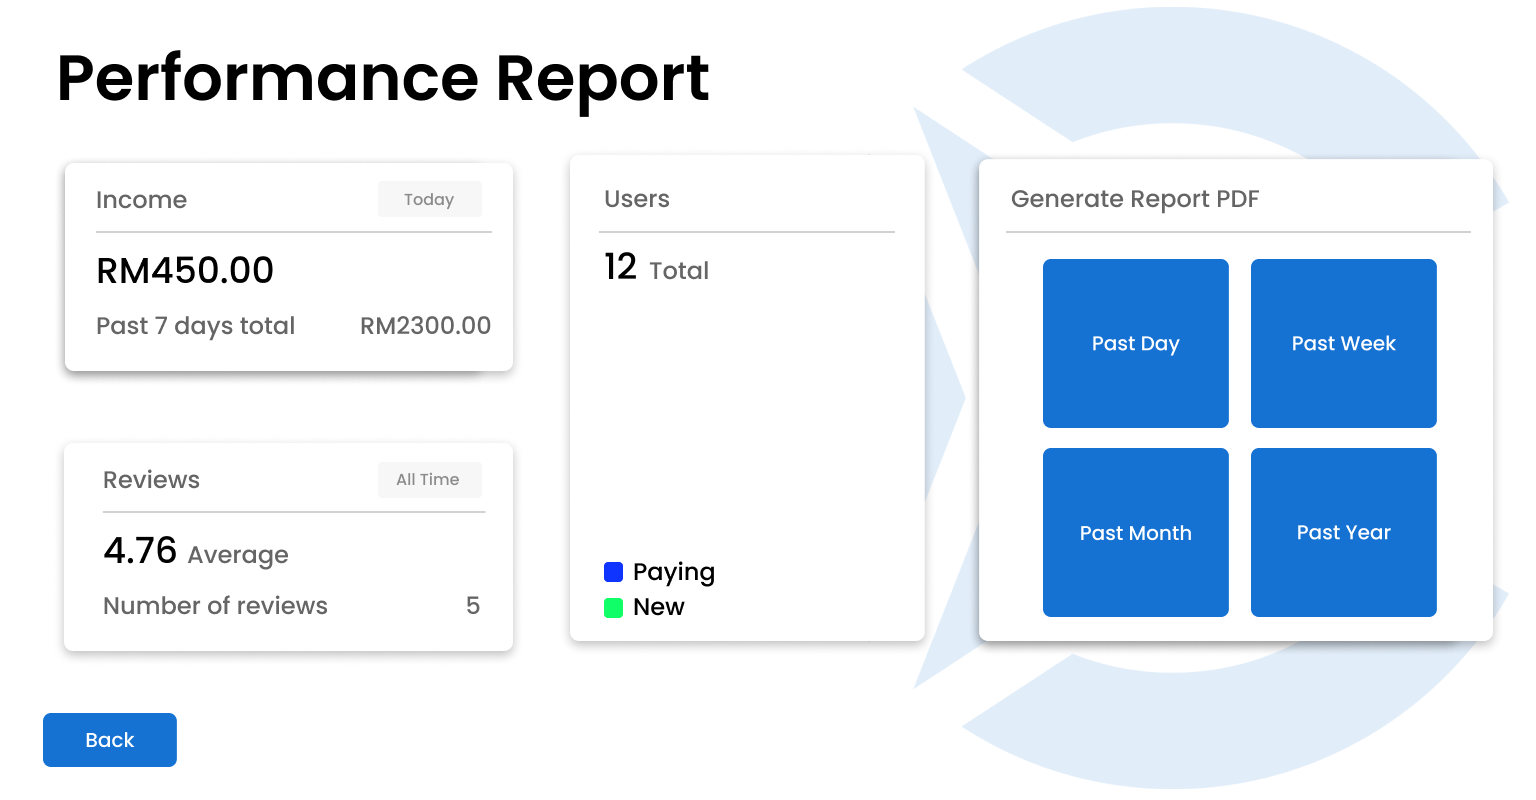
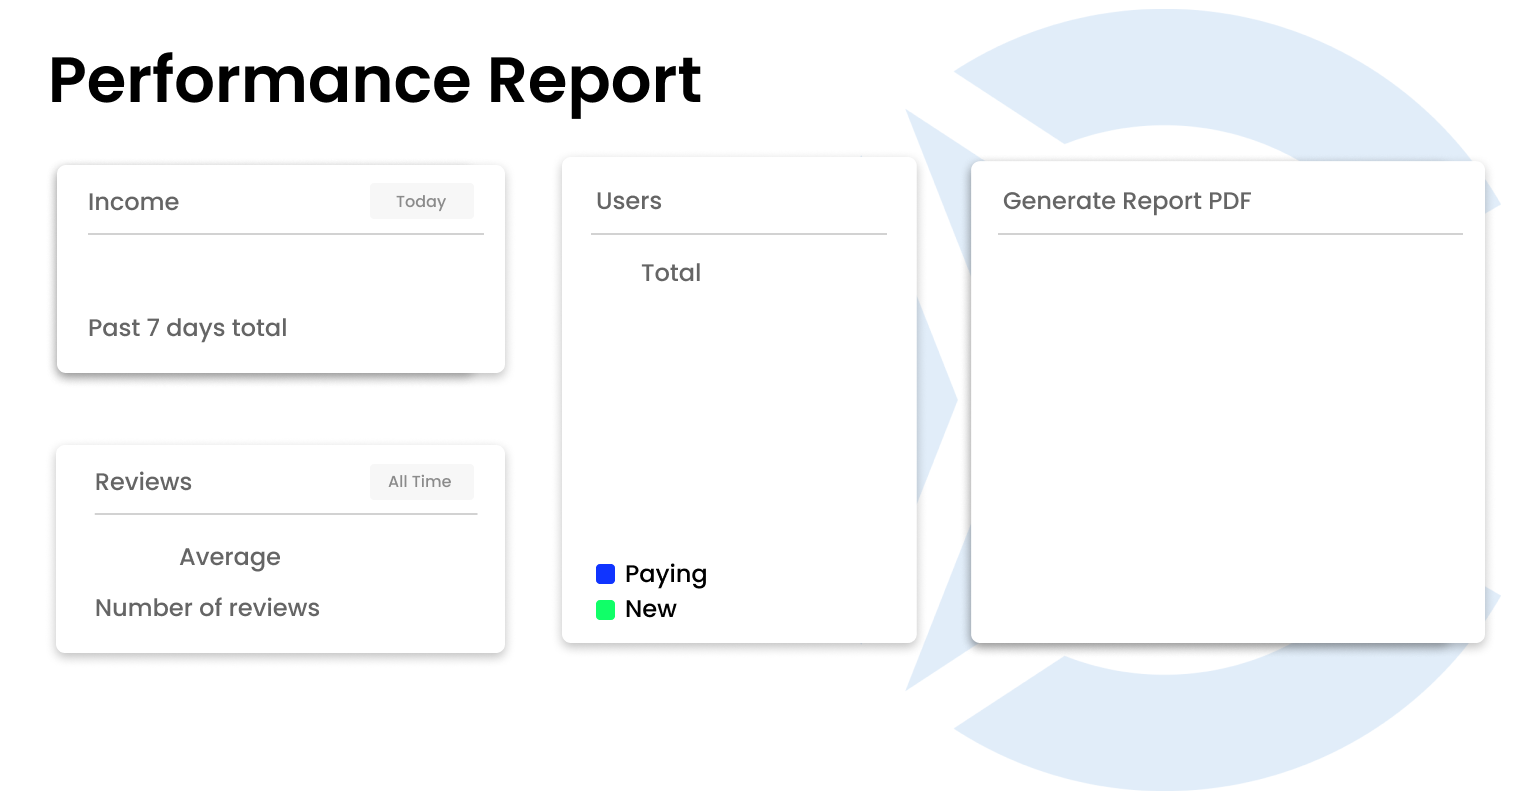
Small changes to performance report

diff --git a/ALLProject/main/AppCode.py b/ALLProject/main/AppCode.py
@@ -1050,3 +1050,71 @@ class App:
         past_rentals_ui = ctk.CTkImage(light_image=img.open("assets/performance report ui.png"), size=(self.width, self.height-71))
         past_rentals_ui_label = ctk.CTkLabel(master=self.master, image=past_rentals_ui, text="")
         past_rentals_ui_label.place(relx=0, rely=0, anchor="nw")
+
+        #get performance info
+        # self.cursor.execute("SELECT TOTAL_PRICE FROM BOOKINGS WHERE ")
+        # today_income = self.cursor.fetchall()
+        today_income = 2200
+
+        today_income_label = ctk.CTkLabel(
+            self.master,text=f"RM{today_income:.2f}",
+            bg_color="white",fg_color="white",text_color="black",
+            font=("Poppins Medium",36)
+        )
+        today_income_label.place(x=88,y=240)
+
+        week_income = 2500
+        week_income_label = ctk.CTkLabel(
+            self.master,text=f"RM{week_income:.2f}",
+            bg_color="white",fg_color="white",text_color="#656565",
+            font=("Poppins Medium",24)
+        )
+        week_income_label.place(x=352,y=306)
+
+        review_average = 4.65
+        review_average_label = ctk.CTkLabel(
+            self.master,text=f"{review_average:.2f}",
+            bg_color="white",fg_color="white",text_color="black",
+            font=("Poppins Medium",36)
+        )
+        review_average_label.place(x=92,y=520)
+
+        review_count = 10
+        review_count_label = ctk.CTkLabel(
+            self.master, text=f"{review_count}",
+            bg_color="white", fg_color="white", text_color="#656565",
+            font=("Poppins Medium", 24)
+        )
+        review_count_label.place(x=457,y=585)
+
+        user_count = 12
+        user_count_label = ctk.CTkLabel(
+            self.master, text=f"{user_count}",
+            bg_color="white", fg_color="white", text_color="black",
+            font=("Poppins Medium", 36)
+        )
+        user_count_label.place(x=596, y=240)
+
+        text_list = ["Past Day","Past Week","Past Month","Past Year"]
+        for i in range(4):
+            button = ctk.CTkButton(
+                self.master,text=text_list[i],
+                bg_color="white",fg_color="#1572D3",text_color="white",
+                width=185,height=169,
+                font=("Poppins Medium",20)#,command=lambda :
+            )
+            button.place(x=1035+208*(i%2),y=258+189*(i>1))
+
+            # Back Button
+            back_button = ctk.CTkButton(
+                self.master, text="Back", bg_color="white", fg_color="#1572D3",
+                text_color="white",
+                border_color="#1572D3", width=89 / 1280 * self.width,
+                height=39 / 720 * self.height, font=("Poppins Medium", 18),
+                command=self.home_page
+            )
+            back_button.place(x=45 / 1280 * self.width, y=588 / 720 * self.height)
+
+
+def print_pdf(self,time_option):
+        print(time_option)

diff --git a/ALLProject/main/CarData.py b/ALLProject/main/CarData.py
@@ -21,8 +21,8 @@ cursor.execute(
 conn.commit()
 cursor.execute('''CREATE TABLE IF NOT EXISTS BOOKINGS (
         BOOKING_ID INTEGER PRIMARY KEY AUTOINCREMENT NOT NULL,
-        START_DATE VARCHAR(255) NOT NULL,
-        END_DATE VARCHAR(255) NOT NULL,
+        START_DATE VARCHAR(10) NOT NULL,
+        END_DATE VARCHAR(10) NOT NULL,
         LOCATION VARCHAR(255) NOT NULL,
         RATING INTEGER NOT NULL,
         CAR_ID INTEGER NOT NULL,
